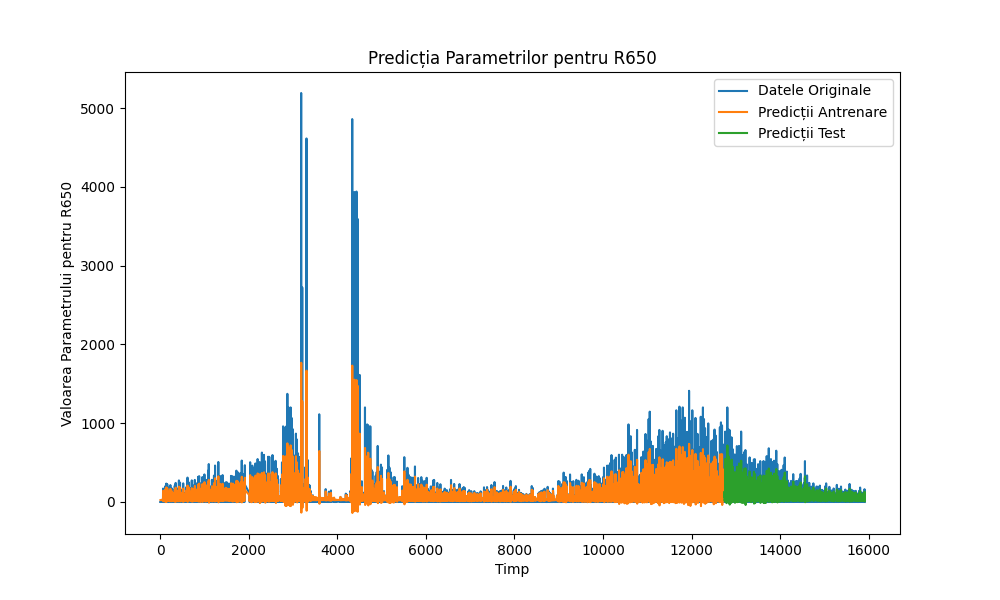
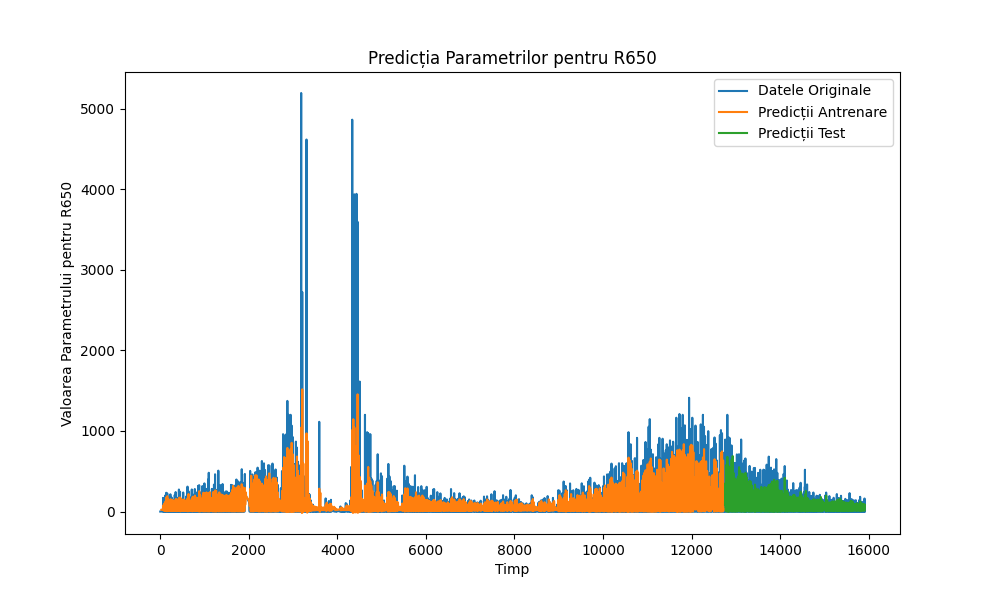
update modele

diff --git a/SensorML/retele_neuronale.py b/SensorML/retele_neuronale.py
@@ -6,8 +6,7 @@ from keras.layers import LSTM, Dense, Dropout
 from sklearn.preprocessing import MinMaxScaler
 from sklearn.model_selection import train_test_split
 from read_csv import load_and_clean_data
-import base64
-from io import BytesIO
+
 
 # Funcție pentru a crea seturi de date de intrare și ieșire
 def create_dataset(dataset, time_step):
@@ -22,17 +21,14 @@ def create_dataset(dataset, time_step):
 def function_LSTM(df, column):
     # Extrage coloana pentru predicție
     data = df[column].values.reshape(-1, 1)
-
     # Normalizează datele
     scaler = MinMaxScaler(feature_range=(0, 1))
     data_normalized = scaler.fit_transform(data)
-
     # Crearea seturilor de date de antrenare și test
     train_data, test_data = train_test_split(data_normalized, test_size=0.2, shuffle=False)
-
     # Crearea seturilor de date pentru antrenare și testare
     # Parametrii modelului
-    time_step = 5
+    time_step = 25
     n_features = 1
 
     # Crearea seturilor de antrenare și test
@@ -44,10 +40,12 @@ def function_LSTM(df, column):
     X_test = X_test.reshape(X_test.shape[0], X_test.shape[1], n_features)
 
     # Construirea modelului LSTM
-    model = Sequential()
-    model.add(LSTM(50, return_sequences=True, input_shape=(time_step, n_features)))
-    model.add(LSTM(50, return_sequences=False))
-    model.add(Dense(1))
+    model = Sequential()  # lista secventiala de straturi
+    model.add(LSTM(50, return_sequences=True, input_shape=(time_step, n_features)))  # va returna secvențe complete
+    # de ieșiri pentru fiecare element din secvență (și nu doar ieșirea de la ultimul pas de timp)
+    model.add(LSTM(50, return_sequences=False)) # doar ultima ieșire din secvență, pregătind datele pentru stratul
+    # de ieșire.
+    model.add(Dense(1)) # folosit pentru predicția unei singure valori continue
 
     # Compilarea modelului
     model.compile(optimizer='adam', loss='mean_squared_error')
@@ -68,7 +66,7 @@ def function_LSTM(df, column):
     plt.plot(scaler.inverse_transform(data_normalized), label='Datele Originale')
     plt.plot(np.arange(time_step, len(train_predict) + time_step), train_predict, label='Predicții Antrenare')
     plt.plot(np.arange(len(train_predict) + (2 * time_step) + 1, len(data_normalized) - 1), test_predict,
-         label='Predicții Test')
+             label='Predicții Test')
     plt.title(f'Predicția Parametrilor pentru {column}')
     plt.xlabel('Timp')
     plt.ylabel(f'Valoarea Parametrului pentru {column}')
@@ -98,5 +96,6 @@ if __name__ == '__main__':
     df = load_and_clean_data(file_path)
     numeric_columns = ['pres', 'temp1', 'umid', 'temp2', 'V450', 'B500', 'G550', 'Y570', 'O600', 'R650', 'temps1',
                        'temps2', 'lumina']
+
     for column in numeric_columns:
         function_LSTM(df,column)

diff --git a/SensorML/app.py b/SensorML/app.py
@@ -25,6 +25,7 @@ def models():
 def prediction():
     return render_template('prediction.html')
 
+
 @app.route('/predict', methods=['POST'])
 def predict():
     # Collect form data
@@ -49,7 +50,18 @@ def predict():
 
     # Set variables for template rendering
     selected_attributes = input_data
-    disease = 'Există un risc ridicat de boală la roșii.' if prediction == 1 else 'Riscul de boală la roșii este scăzut.'
+    if prediction == 2:
+        disease = 'Există un risc ridicat de boală la roșii pentru boala Late Blight'
+    elif prediction == 0:
+        disease = 'Există un risc ridicat de boală la roșii pentru boala Early Blight'
+    elif prediction == 4:
+        disease = 'Există un risc ridicat de boală la roșii pentru boala Powdery Milldew'
+    elif prediction == 1:
+        disease = 'Există un risc ridicat de boală la roșii pentru boala Gray Mold'
+    elif prediction == 3:
+        disease = 'Există un risc ridicat de boală la roșii pentru boala Leaf Mold'
+    else:
+        disease = 'Riscul de boală la roșii este scăzut.'
 
     # Render the template with the variables
     return render_template('prediction.html', selected_attributes=selected_attributes, disease=disease)
@@ -95,18 +107,17 @@ def show_chart_RN(parameter_type):
 
 @app.route('/show_chart_Seq2Seq/<parameter_type>', methods=['GET'])
 def show_chart_Seq2Seq(parameter_type):
-    image_path = "images/"+return_pathSeq2Seq(parameter_type)
+    image_path = "images/" + return_pathSeq2Seq(parameter_type)
     print(image_path)
     return render_template('image.html', image_path=image_path)
 
 
 @app.route('/show_chart_prophet/<parameter_type>', methods=['GET'])
 def show_chart_prophet(parameter_type):
-    image_path = "images/"+return_path_prophet(parameter_type)
+    image_path = "images/" + return_path_prophet(parameter_type)
     print(image_path)
     return render_template('image.html', image_path=image_path)
 
 
 if __name__ == '__main__':
     app.run(debug=True)
-

diff --git a/SensorML/antrenare_boli.py b/SensorML/antrenare_boli.py
@@ -22,11 +22,13 @@ df.fillna('Unknown', inplace=True)
 label_encoder = LabelEncoder()
 # Codificarea coloanei țintă
 y = label_encoder.fit_transform(df['Disease'])
+print(y)
 
 # Separarea caracteristicilor de intrare și a etichetelor
 X = df.drop('Disease', axis=1)
 text_columns = X.select_dtypes(include=['object']).columns
 numeric_columns = X.select_dtypes(exclude=['object']).columns
+
 # Construirea preprocesorului cu OneHotEncoder pentru coloanele textuale și StandardScaler pentru cele numerice
 preprocessor = ColumnTransformer(transformers=[
     ('num', StandardScaler(), numeric_columns),
